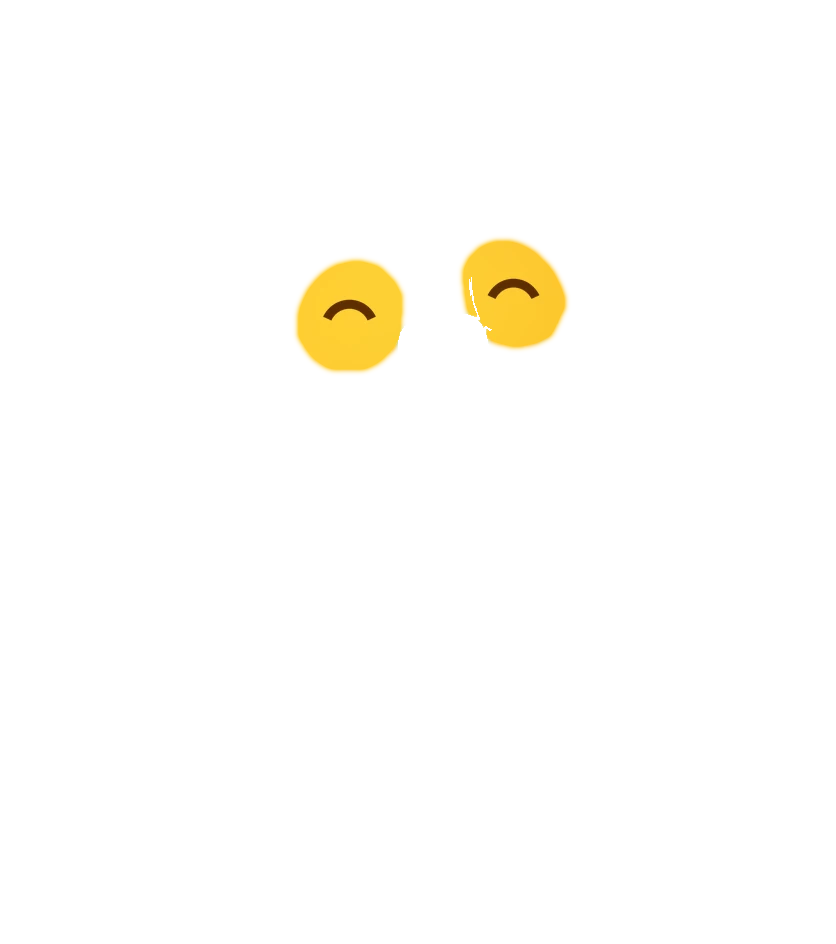
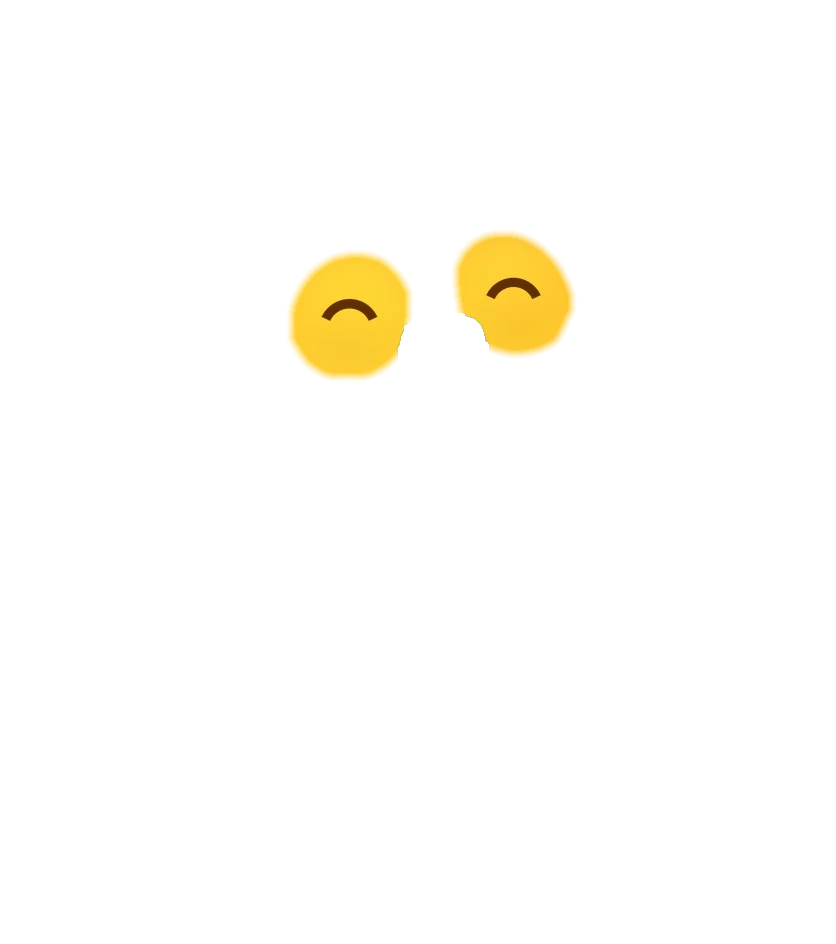
C hero eyes: closed/happy eyelids blend into the face
- eye patches fade out over the surrounding skin (no ring left by the
  eye socket) and fill the rim slivers next to the nose
- soft dome shading and a little clay grain on the closed eyelids
- eye overlay URLs versioned so browsers drop the old images

Changed region(s): [[0.5287, 0.2458, 0.6842, 0.3994], [0.3421, 0.2458, 0.4976, 0.4301]]

diff --git a/concept-c.html b/concept-c.html
@@ -101,9 +101,9 @@
         <span class="ground-shadow gs-bobo" aria-hidden="true"></span>
         <span class="ground-shadow gs-nunu" aria-hidden="true"></span>
         <span class="ground-shadow gs-tata" aria-hidden="true"></span>
-        <span class="stk-char sc-bobo char"><img src="assets/img/concept-c/bobo-jump.webp" width="761" height="942" alt=""><img class="eyes eyes-closed" src="assets/img/concept-c/bobo-eyes-closed.webp" width="761" height="942" alt=""><img class="eyes eyes-happy" src="assets/img/concept-c/bobo-eyes-happy.webp" width="761" height="942" alt=""></span>
-        <span class="stk-char sc-nunu char"><img src="assets/img/concept-c/nunu-jump.webp" width="836" height="944" alt=""><img class="eyes eyes-closed" src="assets/img/concept-c/nunu-eyes-closed.webp" width="836" height="944" alt=""><img class="eyes eyes-happy" src="assets/img/concept-c/nunu-eyes-happy.webp" width="836" height="944" alt=""></span>
-        <span class="stk-char sc-tata char"><img src="assets/img/concept-c/tata-jump.webp" width="768" height="954" alt=""><img class="eyes eyes-closed" src="assets/img/concept-c/tata-eyes-closed.webp" width="768" height="954" alt=""><img class="eyes eyes-happy" src="assets/img/concept-c/tata-eyes-happy.webp" width="768" height="954" alt=""></span>
+        <span class="stk-char sc-bobo char"><img src="assets/img/concept-c/bobo-jump.webp" width="761" height="942" alt=""><img class="eyes eyes-closed" src="assets/img/concept-c/bobo-eyes-closed.webp?v=8a2fdcdb" width="761" height="942" alt=""><img class="eyes eyes-happy" src="assets/img/concept-c/bobo-eyes-happy.webp?v=1f4723bd" width="761" height="942" alt=""></span>
+        <span class="stk-char sc-nunu char"><img src="assets/img/concept-c/nunu-jump.webp" width="836" height="944" alt=""><img class="eyes eyes-closed" src="assets/img/concept-c/nunu-eyes-closed.webp?v=f2f44cc3" width="836" height="944" alt=""><img class="eyes eyes-happy" src="assets/img/concept-c/nunu-eyes-happy.webp?v=cc672daf" width="836" height="944" alt=""></span>
+        <span class="stk-char sc-tata char"><img src="assets/img/concept-c/tata-jump.webp" width="768" height="954" alt=""><img class="eyes eyes-closed" src="assets/img/concept-c/tata-eyes-closed.webp?v=214a69e6" width="768" height="954" alt=""><img class="eyes eyes-happy" src="assets/img/concept-c/tata-eyes-happy.webp?v=7ea63a70" width="768" height="954" alt=""></span>
       </div>
       <div class="bubble" aria-hidden="true">m… m… <b>milk!</b></div>
       <button class="sound-chip" type="button" data-say="m" aria-label="/m/ 소리 들어보기">

diff --git a/tools/eyes_closed.py b/tools/eyes_closed.py
@@ -43,7 +43,7 @@ for name in ['bobo', 'tata', 'nunu']:
         pts = np.column_stack(np.where(keep))[:, ::-1].astype(np.int32)
         hull = cv2.convexHull(pts); m = np.zeros((H, W), np.uint8)
         cv2.fillConvexPoly(m, hull + np.array([x0, y0]), 255)
-        m = cv2.dilate(m, cv2.getStructuringElement(cv2.MORPH_ELLIPSE, (17, 17)))   # cover the rim, its highlight and AA edge
+        m = cv2.dilate(m, cv2.getStructuringElement(cv2.MORPH_ELLIPSE, (23, 23)))   # cover the rim, its highlight and AA edge
         eye_masks.append(m > 0)
         yy, xx = np.where(m > 0); boxes.append((xx.min(), yy.min(), xx.max(), yy.max()))
     boxes, eye_masks = zip(*sorted(zip(boxes, eye_masks), key=lambda t: t[0][0]))
@@ -59,11 +59,30 @@ for name in ['bobo', 'tata', 'nunu']:
     nose = np.zeros_like(eye)
     for j in range(1, nk + 1):
         comp = nl == j
-        if (comp & ~eye).sum() > 400 and (comp & eye).any(): nose |= comp
+        if (comp & ~eye).sum() > 400 and (comp & eye).any():
+            # inside the eye area keep only real nose colour; rim / highlight slivers next to the nose get painted
+            nose_med = np.median(rgb[comp & ~eye], 0)
+            nose |= comp & (~eye | (np.abs(rgb - nose_med).sum(-1) < 90))
     paint = eye & ~nose
-    filled = fit_fill(rgb, skin, paint)
-    soft = cv2.GaussianBlur(paint.astype(np.float32), (0, 0), 2.5)
-    alpha = np.where(nose, 0, np.clip(soft * 1.6, 0, 1)) * 255   # fade out at the cheeks, hard stop at the nose
+    # fade outward over ~10px of real skin (never into the nose), solid inside -> no ghost ring, no seam at the nose
+    band = 10
+    outside = ~paint
+    dt = nd.distance_transform_edt(outside)
+    reach = (dt <= band) & ~nose & (al > 250)
+    region = paint | reach
+    filled = fit_fill(rgb, skin, region)
+    alpha = np.where(paint, 1.0, np.where(reach, np.clip(1 - dt / band, 0, 1) ** 1.5, 0.0))
+    # closed eyelid = a soft dome: a little lighter on top, a touch darker toward the lash line
+    for em, (bx0, by0, bx1, by1) in zip(eye_masks, boxes):
+        cx, cy = (bx0 + bx1) / 2, (by0 + by1) / 2; rx, ry = (bx1 - bx0) / 2, (by1 - by0) / 2
+        yy, xx = np.mgrid[0:H, 0:W]; nxv = (xx - cx) / rx; nyv = (yy - cy) / ry
+        r2 = nxv ** 2 + nyv ** 2; dome = np.clip(1 - r2, 0, 1)
+        shade = 1 + .06 * dome * np.clip(-nyv + .2, -1, 1)          # light from above
+        filled = np.where((em & paint)[..., None], np.clip(filled * shade[..., None], 0, 255), filled)
+    filled = cv2.GaussianBlur(filled.astype(np.float32), (0, 0), .8)
+    # a whisper of grain so the patch has the same clay texture as the face
+    rng = np.random.default_rng(7); filled = np.clip(filled + rng.normal(0, 1.2, filled.shape), 0, 255)
+    alpha = alpha * 255
     x0, y0, x1, y1 = boxes[0]
     band = rgb[max(0, y0 - (y1 - y0)):y0, x0:x1].reshape(-1, 3); s = band.sum(1)
     lash = tuple(int(v) for v in np.median(band[s < np.percentile(s, 5)], 0))
